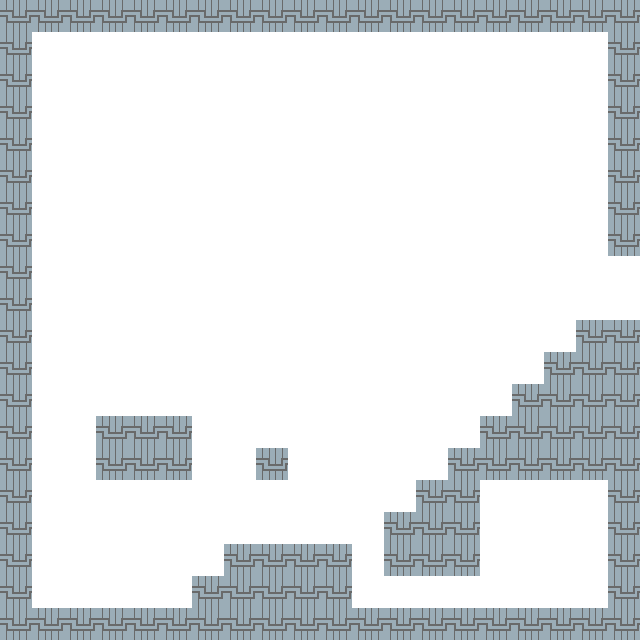
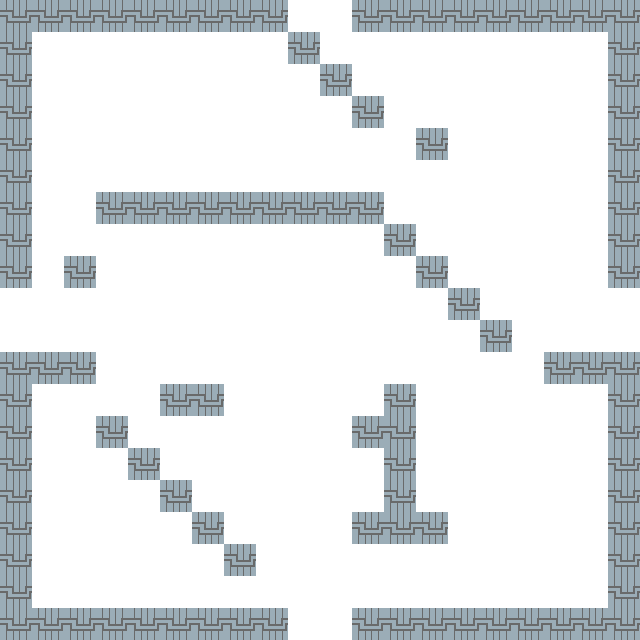
Moving from room to room

diff --git a/source/main.c b/source/main.c
@@ -31,16 +31,96 @@
 
 #include "entities/Guy/entityGuy.h"
 
+static int activeRoomX = 1;
+static int activeRoomY = 0;
 static Room *rooms[2][2];
 
-DynamicEntity *guy = 0;
+DynamicEntity *mainPlayer = 0;
 void setPlayerPosition(double x, double y) {
-    if (!guy) {
-        guy = guyNew(x, y);
-        dynamicEntityRegister(guy);
+    if (!mainPlayer) {
+        mainPlayer = guyNew(x, y);
+        dynamicEntityRegister(mainPlayer);
     } else {
-        guy->pos.x = x;
-        guy->pos.y = y;
+        mainPlayer->pos.x = x;
+        mainPlayer->pos.y = y;
+    }
+}
+
+void gameInit() {
+    for (unsigned int x = 0; x < 2; x++) {
+        for (unsigned int y = 0; y < 2; y++) {
+            rooms[x][y] = roomNew();
+        }
+    }
+    roomDeserialize(rooms[1][0], "./room1.rm");
+    roomDeserialize(rooms[1][1], "./room2.rm");
+    roomDeserialize(rooms[0][1], "./room3.rm");
+    roomDeserialize(rooms[0][0], "./room4.rm");
+
+    roomActivate(rooms[activeRoomX][activeRoomY]);
+}
+
+void checkRoomChange() {
+    double pLeftExtremity = (mainPlayer->pos.x);
+    double pRightExtremity = mainPlayer->pos.x + mainPlayer->sprite.width;
+
+    double pTopExtremity = mainPlayer->pos.y;
+    double pBottomExtremity = mainPlayer->pos.y + mainPlayer->sprite.height;
+
+    int oldRoomX = -1;
+    int oldRoomY = -1;
+
+    // Player has exited grid to the left
+    if (pRightExtremity < GB_GFX_GRID_OFFSET_X) {
+        oldRoomX = activeRoomX;
+        oldRoomY = activeRoomY;
+        if (activeRoomX == 0)
+            activeRoomX = 1;
+        else
+            activeRoomX = 0;
+
+        mainPlayer->pos.x += GB_GFX_GRID_SIZE * GB_GFX_GRID_WIDTH;
+    }
+
+    // Player has exited grid to the right
+    if (pLeftExtremity > (GB_GFX_GRID_OFFSET_X + (GB_GFX_GRID_SIZE * GB_GFX_GRID_WIDTH))) {
+        oldRoomX = activeRoomX;
+        oldRoomY = activeRoomY;
+        if (activeRoomX == 1)
+            activeRoomX = 0;
+        else
+            activeRoomX = 1;
+
+        mainPlayer->pos.x = GB_GFX_GRID_OFFSET_X;
+    }
+
+    // Player has exited grid by the top
+    if (pBottomExtremity < GB_GFX_GRID_OFFSET_Y) {
+        oldRoomX = activeRoomX;
+        oldRoomY = activeRoomY;
+        if (activeRoomY == 0)
+            activeRoomY = 1;
+        else
+            activeRoomY = 0;
+
+        mainPlayer->pos.y += GB_GFX_GRID_SIZE * GB_GFX_GRID_HEIGHT;
+    }
+
+    // Player has exited grid through the bottom
+    if (pTopExtremity > (GB_GFX_GRID_OFFSET_Y + (GB_GFX_GRID_SIZE * GB_GFX_GRID_HEIGHT))) {
+        oldRoomX = activeRoomX;
+        oldRoomY = activeRoomY;
+        if (activeRoomY == 1)
+            activeRoomY = 0;
+        else
+            activeRoomY = 1;
+
+        mainPlayer->pos.y = GB_GFX_GRID_OFFSET_Y;
+    }
+
+    if (oldRoomX > -1 && oldRoomY > -1) {
+        roomDeactivate(rooms[oldRoomX][oldRoomY]);
+        roomActivate(rooms[activeRoomX][activeRoomY]);
     }
 }
 
@@ -52,9 +132,9 @@ int main(int argc, char *argv[]) {
     gbAnimationInit();
     dynamicEntityInit();
     collisionInit();
-    editorInit();
-
     guyInit();
+
+    gameInit();//editorInit();
 
     uint8_t done = 0;
     uint32_t last_time = 0;
@@ -81,7 +161,7 @@ int main(int argc, char *argv[]) {
         if(gbInputCheckState(GB_INPUT_TOGGLE_EDIT_MODE, GB_INPUT_RELEASED))
             GB_GFX_DEBUG_FLAG = !GB_GFX_DEBUG_FLAG;
 
-        editorUpdate();
+        checkRoomChange();//editorUpdate();
         dynamicEntityAct(delta);
         gbGfxDraw();
 
@@ -107,7 +187,7 @@ int main(int argc, char *argv[]) {
 //        file = 0;
 //    }
 
-    editorTeardown();
+    //editorTeardown();
     collisionTeardown();
     gbAnimationTeardown();
     gbGfxTeardown();

diff --git a/source/gbGfx/gbGfx_sys.c b/source/gbGfx/gbGfx_sys.c
@@ -22,7 +22,7 @@
 #include "./gbText/gbText_type.h"
 #include "../Collision/Collision_sys.h"
 
-uint8_t GB_GFX_DEBUG_FLAG = 1;
+uint8_t GB_GFX_DEBUG_FLAG = 0;
 
 static int32_t gbGfxCameraOffsetX = 0;
 static int32_t gbGfxCameraOffsetY = 0;
